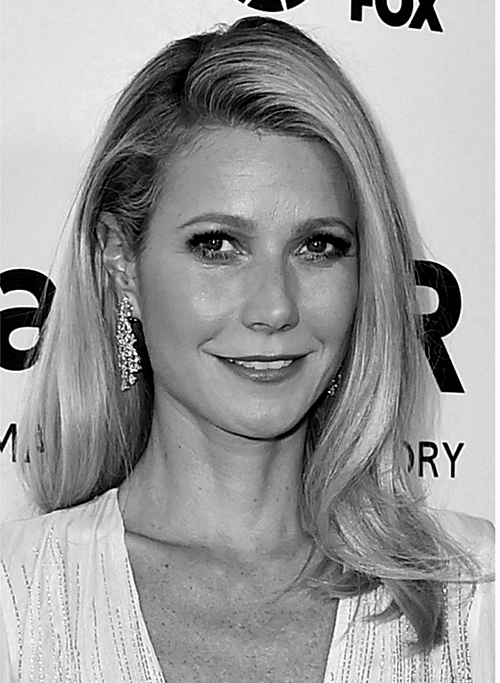
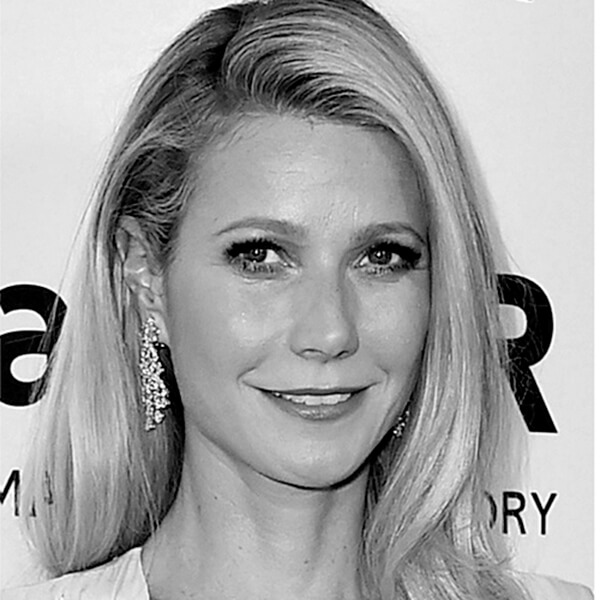
design and content updates

diff --git a/index.html b/index.html
@@ -6,17 +6,17 @@
     <meta http-equiv="x-ua-compatible" content="IE=edge">
     <meta property="og:type" content="article" />
     <meta name="twitter:card" content="summary_large_image">
-    <meta name="twitter:image:src" content="">
-    <meta name="twitter:image" content="">
-    <meta property="og:image" content="">
+    <meta name="twitter:image:src" content="https://www.gannett-cdn.com/experiments/usatoday/responsive/2017/weinstein-timeline/assets/img/fb-post.jpg">
+    <meta name="twitter:image" content="https://www.gannett-cdn.com/experiments/usatoday/responsive/2017/weinstein-timeline/assets/img/fb-post.jpg">
+    <meta property="og:image" content="https://www.gannett-cdn.com/experiments/usatoday/responsive/2017/weinstein-timeline/assets/img/fb-post.jpg">
     <meta http-equiv="Content-Type" content="text/html; charset=UTF-8">
     <meta property="og:url" content="" />
-    <meta name="description" content="">
-    <meta property="og:description" content="">
-    <meta name="twitter:description" content="">
-    <meta property="og:title" content="">
-    <meta name="twitter:title" content="">
-    <title>Weinstein timeline</title>
+    <meta name="description" content="Disgraced movie mogul Harvey Weinstein was ousted from his own company Sunday. Here’s a look at his career and the harassment allegations leveled against him.">
+    <meta property="og:description" content="Disgraced movie mogul Harvey Weinstein was ousted from his own company Sunday. Here’s a look at his career and the harassment allegations leveled against him.">
+    <meta name="twitter:description" content="Disgraced movie mogul Harvey Weinstein was ousted from his own company Sunday. Here’s a look at his career and the harassment allegations leveled against him.">
+    <meta property="og:title" content="Weinstein: Timeline of Hollywood success and hidden abuse">
+    <meta name="twitter:title" content="Weinstein: Timeline of Hollywood success and hidden abuse">
+    <title>Weinstein: Timeline of Hollywood success and hidden abuse</title>
     <!-- inject:css -->
     <link rel="stylesheet" href="baseplate-components/static-override/static-override.css">
     <link rel="stylesheet" href="baseplate-components/ads/dist/ads.css">
@@ -30,7 +30,7 @@
     <!-- endinject -->
 </head>
 <body>
-    <div ng-app="thanks-obama">
+    <div ng-app="weinstein-timeline">
         <viz></viz>
         <script id="facebook-jssdk" src="https://connect.facebook.net/en_US/sdk.js"></script>
         <script src="https://www.gannett-cdn.com/experiments/usatoday/responsive/interactive-libs/analytics/analytics.js"></script>

diff --git a/components/viz/viz.html b/components/viz/viz.html
@@ -4,11 +4,12 @@
             <h1 class="header-title">Harvey <span class="header-line">Weinstein</span></h1>
             <h3 class="header-sub">Timeline of Hollywood success and hidden abuse</h3>
         </div>
-        <img src="{{'assets/img/weinstein_hero.jpg' | assetPath}}" alt="" class="header-image">
+        <img src="{{'assets/img/weinstein_hero.jpg' | assetPath}}" alt="" class="header-image header-image-large">
+        <img src="{{'assets/img/weinstein_hero_small.jpg' | assetPath}}" alt="" class="header-image header-image-small">
     </div>
     <div class="viz-container">
         <div class="header-description">
-            <p>Intro chatter</p>
+            <p>Disgraced movie mogul Harvey Weinstein was ousted from his own company Sunday after The New York Times uncovered at least eight settlements paid out by Weinstein for harassment over the past three decades. On Tuesday, an investigative report by The New Yorker alleged incidents of sexual assault and rape. A chorus of women have come forward to condemn the producer and share stories of his sexual misconduct, including Angelina Jolie and Gwyneth Paltrow. Hillary Clinton, a friend of Weinstein, said on Twitter she was appalled. Here’s a look at his career and the harassment allegations leveled against him.</p>
             <div class="intro-key">
                 <div class="intro-key-item"><span class="key-color dark"></span> Career highlights</div>
                 <div class="intro-key-item"><span class="key-color light"></span> Harassment incidents</div>

diff --git a/components/timeline/timeline.js b/components/timeline/timeline.js
@@ -1,7 +1,8 @@
 (function (angular) {
     'use strict';
 
-    angular.module('thanks-obama.timeline', [
+    angular.module('weinstein-timeline.timeline', [
+        'weinstein-timeline',
         'utils'
     ])
 
@@ -53,7 +54,7 @@
 
     }])
 
-    .service('$timeline', ['$rootScope', '$q', '$http', '$interval', function ($rootScope, $q, $http, $interval) {
+    .service('$timeline', ['$rootScope', '$q', '$http', '$interval', 'assetPathFilter', function ($rootScope, $q, $http, $interval, assetPathFilter) {
 
 
         var _this = this,
@@ -201,7 +202,7 @@
             }
             // wait for data to get fetched
             else {
-                _this.fetch('assets/data/events.json').then(function(events) {
+                _this.fetch(assetPathFilter('assets/data/events.json')).then(function(events) {
                     _this.events = events;
                     $rootScope.$broadcast('events_set', events);
                     deferred.resolve(_this.get_filtered_events());

diff --git a/components/viz/viz.js b/components/viz/viz.js
@@ -1,11 +1,11 @@
 (function (angular) {
     'use strict';
 
-    angular.module('thanks-obama.viz', [
+    angular.module('weinstein-timeline.viz', [
         'resizer',
-        'thanks-obama.timeline',
-        'thanks-obama.dropdown',
-        'thanks-obama.eventDetail'
+        'weinstein-timeline.timeline',
+        'weinstein-timeline.dropdown',
+        'weinstein-timeline.eventDetail'
     ])
 
     .directive('viz', ['$timeout', function ($timeout) {
@@ -16,7 +16,7 @@
             controller: 'viz',
             link: function ($scope, $element, $attr) {
                 var el = $element[0],
-                    app_name = 'thanks-obama';
+                    app_name = 'weinstein-timeline';
                 if (window.Analytics) {
                     window.Analytics.setup(app_name, {
                         // page views are handled with route success

diff --git a/components/viz/viz.css b/components/viz/viz.css
@@ -39,13 +39,15 @@ body {
 .header-title {
     max-width: 800px;
     margin: 10px auto;
-    font-size: 28px;
+    font-size: 36px;
 }
 
 .header-description {margin: 40px auto;font-size: 1.3rem;max-width: 800px;}
 
 .header-description > p {
-    margin: 20px 0;
+    margin: 40px 0;
+    font-family: Georgia, serif;
+    line-height: 1.7;
 }
 
 .intro-key {
@@ -89,6 +91,10 @@ body {
     font-size: 18px;
 }
 
+.header-image-large {
+    display: none;
+}
+
 @media(min-width: 800px) {
     .header-text-wrap {
         padding: 0;
@@ -115,6 +121,18 @@ body {
         background: white;
         color: #3e3e3e;
         padding: 5px 10px;
+    }
+
+    .header-description > p {
+        margin: 80px auto;
+    }
+
+    .header-image-large {
+        display: block;
+    }
+
+    .header-image-small {
+        display: none;
     }
 }
 

diff --git a/app.js b/app.js
@@ -1,8 +1,8 @@
 (function (angular) {
     'use strict';
 
-    angular.module('thanks-obama', [
-        'thanks-obama.viz'
+    angular.module('weinstein-timeline', [
+        'weinstein-timeline.viz'
     ])
 
     .config(['$locationProvider', function($locationProvider) {
@@ -17,7 +17,7 @@
             if (isDev) {
                 return input;
             } else {
-                return 'https://www.gannett-cdn.com/experiments/usatoday/2017/weinstein-timeline/' + input;
+                return 'https://www.gannett-cdn.com/experiments/usatoday/responsive/2017/weinstein-timeline/' + input;
             }
         }
     });

diff --git a/components/timeline/timeline.html b/components/timeline/timeline.html
@@ -9,7 +9,7 @@
                     <div class="event-item-image" ng-if="event.image"><img src="{{'assets/img/events/' + event.image | assetPath}}" alt=""></div>
                     <div class="event-item-preview">{{ event.preview }}</div>
                     <div class="event-item-footer">
-                        <img class="event-item-footer-arrow" src="assets/img/arrow-down-grey.png" alt="open">
+                        <img class="event-item-footer-arrow" src="{{'assets/img/arrow-down-grey.png' | assetPath }}" alt="open">
                     </div>
                 </div>
             </div>

diff --git a/gulpfile.js b/gulpfile.js
@@ -14,7 +14,7 @@ const fs = require('fs');
 const addsrc = require('gulp-add-src');
 const replace = require('gulp-replace');
 
-var project_name = 'thanks-obama';
+var project_name = 'weinstein-timeline';
 var path = 'experiments/usatoday/responsive/' + project_name;
 var cdn_path = '/17200/' + path;
 var cdn_url = '//www.gannett-cdn.com/' + path;

diff --git a/components/eventDetail/eventDetail.js b/components/eventDetail/eventDetail.js
@@ -1,7 +1,7 @@
 (function (angular) {
     'use strict';
 
-    angular.module('thanks-obama.eventDetail', [
+    angular.module('weinstein-timeline.eventDetail', [
         'utils'
     ])
 

diff --git a/components/dropdown/dropdown.js b/components/dropdown/dropdown.js
@@ -1,7 +1,7 @@
 (function(angular) {
     'use strict';
 
-    angular.module('thanks-obama.dropdown', [
+    angular.module('weinstein-timeline.dropdown', [
         'utils'
     ])
 

diff --git a/readme.md b/readme.md
@@ -1,4 +1,4 @@
-Thanks Obama
+Weinstein timeline
 ============
 
 ## Dependencies
@@ -20,8 +20,3 @@ To deploy to USA TODAY's CDN, run
 npm run deploy
 ```
 
-## Content
-convert content file (thanks_obama_content.csv) by running:
-```
-npm run csvtojson
-```
